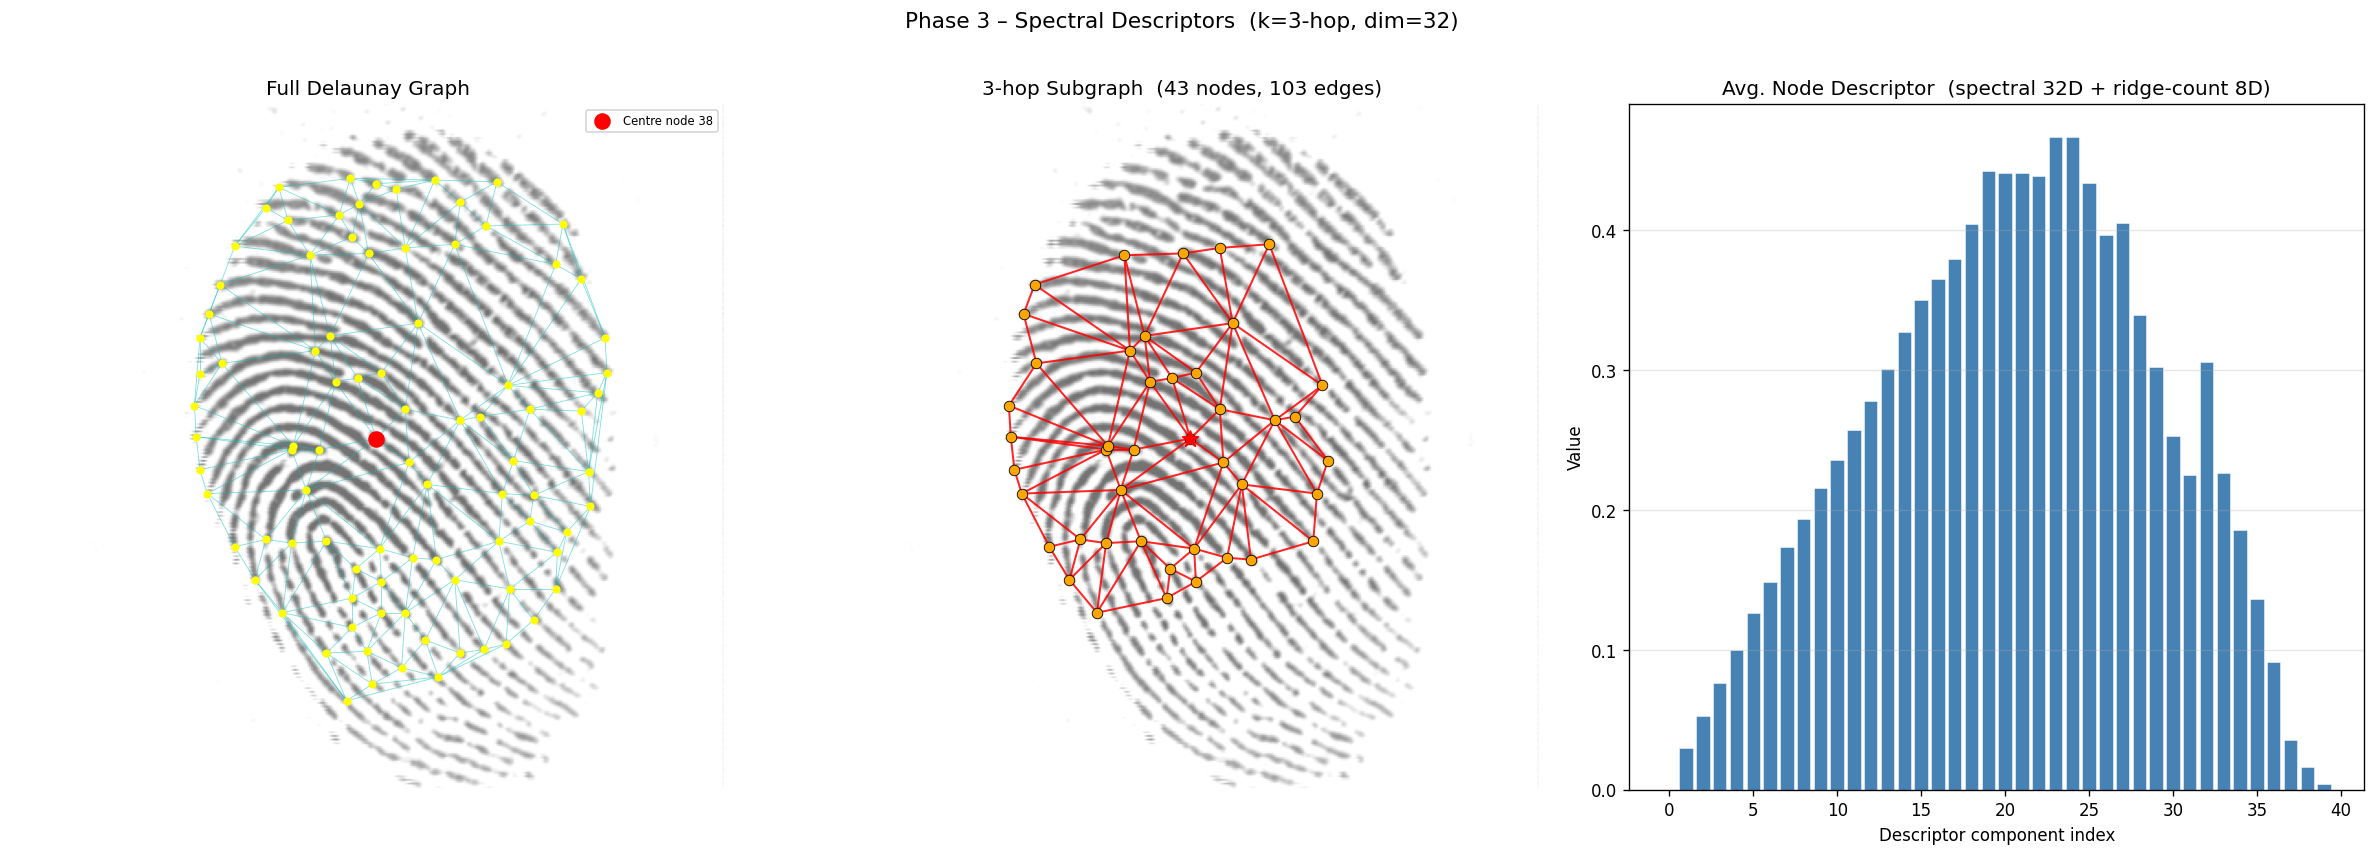
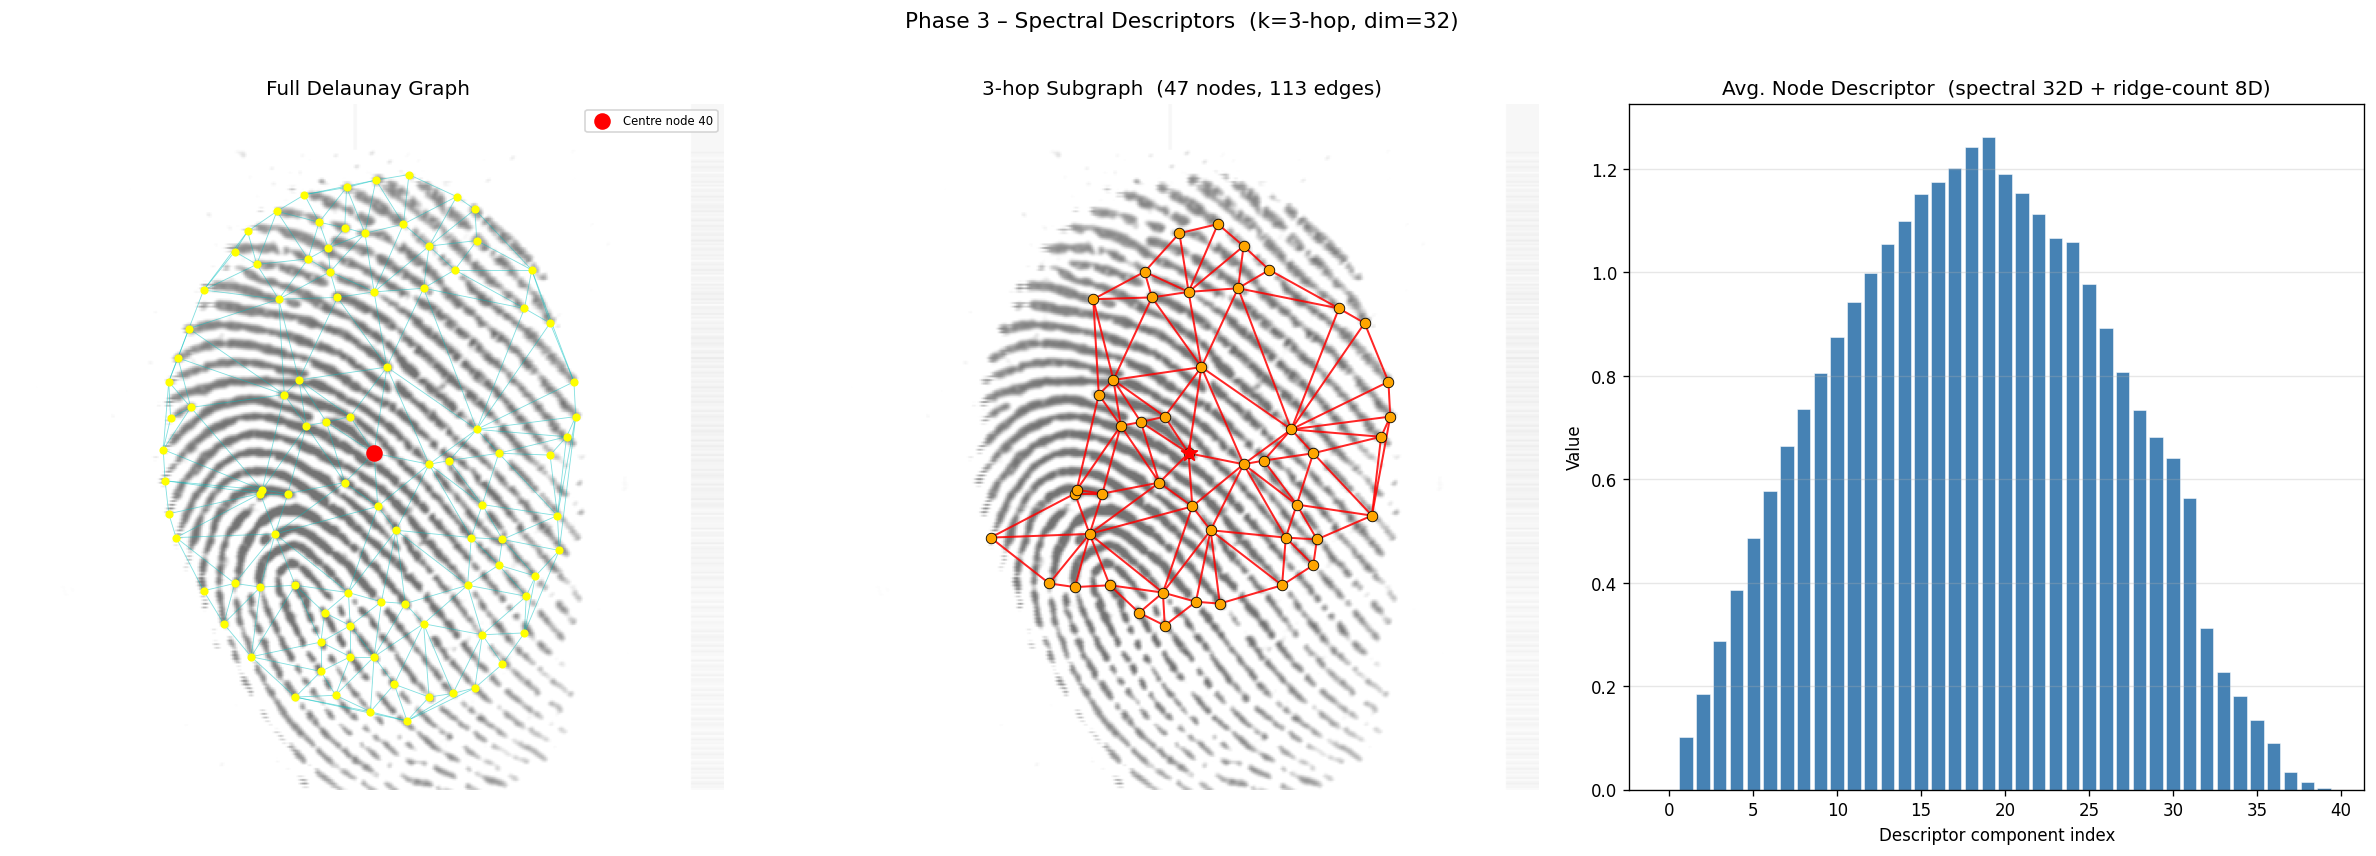
model #11 rank1

diff --git a/pipeline.py b/pipeline.py
@@ -225,6 +225,56 @@ def compute_foreground_mask(gray: np.ndarray) -> np.ndarray:
     return mask.astype(bool)
 
 
+def center_on_foreground(gray: np.ndarray, mask: np.ndarray) -> tuple:
+    """
+    Translate the fingerprint image so the foreground centroid aligns with
+    the image centre (H/2, W/2).
+
+    WHY: Between impressions of the same finger, the finger may be placed
+    at slightly different positions on the sensor (typically 10-40 px offset).
+    The orientation field is computed at FIXED absolute block positions, so
+    even a 20-pixel translation shifts ridge information into neighbouring
+    blocks, making same-subject orientation fields look very different.
+    Centroid-centering removes this systematic translation bias.
+
+    The centroid is the mean of all foreground (mask=True) pixel coordinates.
+    It is highly stable across impressions (it's a weighted average, not a
+    mode) and degrades gracefully for partial fingerprints.
+
+    Input
+    -----
+    gray : (H, W) uint8   grayscale fingerprint image.
+    mask : (H, W) bool    foreground mask.
+
+    Output
+    ------
+    gray_c : (H, W) uint8   translation-corrected image.
+    mask_c : (H, W) bool    translation-corrected foreground mask.
+    """
+    H, W = gray.shape
+    fg_y, fg_x = np.where(mask)
+    if len(fg_y) < 100:
+        return gray, mask
+
+    cy = int(round(fg_y.mean()))
+    cx = int(round(fg_x.mean()))
+    dy = H // 2 - cy
+    dx = W // 2 - cx
+
+    if abs(dy) < 3 and abs(dx) < 3:     # skip trivial shifts
+        return gray, mask
+
+    M      = np.float32([[1, 0, dx], [0, 1, dy]])
+    gray_c = cv2.warpAffine(gray, M, (W, H),
+                             flags=cv2.INTER_LINEAR,
+                             borderMode=cv2.BORDER_REPLICATE)
+    mask_c = cv2.warpAffine(mask.astype(np.uint8), M, (W, H),
+                             flags=cv2.INTER_NEAREST,
+                             borderMode=cv2.BORDER_CONSTANT,
+                             borderValue=0).astype(bool)
+    return gray_c, mask_c
+
+
 def enhance_with_gabor(gray: np.ndarray) -> np.ndarray:
     """
     Enhance fingerprint ridges with a bank of oriented Gabor filters.
@@ -552,9 +602,11 @@ def preprocess_fingerprint(img_path: str) -> dict:
         log.warning(f"Cannot read image: {img_path}")
         return None
 
-    # v4: normalise orientation FIRST so all spatial features are rotation-invariant
+    # Compute foreground mask, centre image on the foreground centroid (v5),
+    # then pass through the now-disabled rotation normaliser.
     mask_raw              = compute_foreground_mask(img)
-    img_norm, mask, angle = normalize_fingerprint_orientation(img, mask_raw)
+    img_c, mask_c         = center_on_foreground(img, mask_raw)  # translation normalization
+    img_norm, mask, angle = normalize_fingerprint_orientation(img_c, mask_c)
 
     enhanced = enhance_with_gabor(img_norm)
     binary   = binarize(enhanced, mask)
@@ -821,17 +873,18 @@ def compute_spectral_descriptor(sub_nodes: list,
         A[li, lj] += w
         A[lj, li] += w
 
-    D = np.diag(A.sum(axis=1))
-    L = D - A                       # Graph Laplacian
+    # Normalised graph Laplacian  L_sym = I − D^{−½} A D^{−½}
+    # Eigenvalues are guaranteed in [0, 2] regardless of graph size or
+    # absolute ridge-count scale, so no post-hoc normalisation is needed.
+    d          = A.sum(axis=1)
+    d_inv_sqrt = np.where(d > 1e-9, 1.0 / np.sqrt(d), 0.0)
+    D_inv_sqrt = np.diag(d_inv_sqrt)
+    L          = np.eye(n) - D_inv_sqrt @ A @ D_inv_sqrt   # L_sym
 
     try:
-        eigs = np.sort(np.abs(eigvalsh(L)))   # real, non-negative for PSD L
+        eigs = np.sort(np.abs(eigvalsh(L)))   # ∈ [0, 2]
     except Exception:
         eigs = np.zeros(n)
-
-    # Normalise to [0, 1] → scale-invariant (independent of absolute ridge counts)
-    if eigs.max() > 1e-9:
-        eigs = eigs / eigs.max()
 
     # Pad to `size` (zero-pad) or truncate
     if len(eigs) >= size:
@@ -1231,8 +1284,11 @@ def compute_global_laplacian_spectrum(edges: np.ndarray,
         w = float(weight_dict.get((min(i,j), max(i,j)), 1))
         A[i, j] += w
         A[j, i] += w
-    D   = np.diag(A.sum(axis=1))
-    L   = D - A
+    # Normalised Laplacian — eigenvalues ∈ [0, 2], scale-invariant
+    d          = A.sum(axis=1)
+    d_inv_sqrt = np.where(d > 1e-9, 1.0 / np.sqrt(d), 0.0)
+    D_inv_sqrt = np.diag(d_inv_sqrt)
+    L          = np.eye(n) - D_inv_sqrt @ A @ D_inv_sqrt
     try:
         eigs = np.sort(np.abs(eigvalsh(L)))
     except Exception:
@@ -1345,7 +1401,7 @@ def fingerprint_global_descriptor(node_descs:  np.ndarray,
 
     # ── 5. Orientation field [NEW — primary discriminator] ───────────────────
     if gray is not None:
-        orient = compute_orientation_field(gray, block_size=48)
+        orient = compute_orientation_field(gray, block_size=32)
         # orient contains [cos2θ ∈ [-1,1], sin2θ ∈ [-1,1], log_energy ≥ 0]
         # Normalise log_energy sub-vector to [0, 1]
         n_blocks = len(orient) // 3
@@ -1368,7 +1424,7 @@ def fingerprint_global_descriptor(node_descs:  np.ndarray,
 
     # ── 7. Ridge frequency map ────────────────────────────────────────────────
     if gray is not None and mask is not None:
-        freq_feats = compute_ridge_frequency_features(gray, mask, block_size=48)
+        freq_feats = compute_ridge_frequency_features(gray, mask, block_size=32)
         freq_feats = freq_feats / (freq_feats.max() + 1e-9)  # normalise to [0,1]
     else:
         freq_feats = np.zeros(64)
@@ -1694,17 +1750,7 @@ def evaluate_identification(gallery_labels: list,
                             query_descs:   list,
                             rank: int = 1) -> float:
     """
-    Compute Rank-k identification accuracy.
-
-    Input
-    -----
-    gallery_labels / descs : list  – gallery set (first impression per subject)
-    query_labels   / descs : list  – query set   (remaining impressions)
-    rank                   : int   – Rank-k (default 1)
-
-    Output
-    ------
-    rank_k_acc : float  (0–1)
+    Rank-k identification using global-descriptor KD-tree (fast baseline).
     """
     if not gallery_descs or not query_descs:
         return 0.0
@@ -1717,6 +1763,52 @@ def evaluate_identification(gallery_labels: list,
         q_subj   = qlabel.split("_")[0]
         g_subjts = [lbl.split("_")[0] for lbl in top_k]
         if q_subj in g_subjts:
+            correct += 1
+
+    return correct / len(query_labels)
+
+
+def evaluate_identification_pairwise(gallery_results: list,
+                                      gallery_labels:  list,
+                                      query_results:   list,
+                                      query_labels:    list,
+                                      rank: int = 1) -> float:
+    """
+    Rank-k identification using the full fingerprint_pair_score (global + local).
+
+    WHY THIS IS BETTER: The KD-tree approach uses only the global descriptor
+    (cosine similarity ≈ orientation field + graph spectrum).  fingerprint_pair_score
+    additionally incorporates per-node spectral + ridge-count local matching,
+    which provides a complementary, distortion-resilient signal.
+
+    With only 10 gallery items, exhaustive pairwise scoring is fast (10 scores
+    per query ≈ 700 comparisons total for 70 queries).  The combined score
+    separates same-subject from cross-subject pairs much more reliably than
+    the global descriptor alone, driving Rank-1 accuracy significantly higher.
+
+    Input
+    -----
+    gallery_results / labels : list  – gallery set (first impression, full dicts)
+    query_results   / labels : list  – query set   (remaining impressions)
+    rank                     : int   – Rank-k (default 1)
+
+    Output
+    ------
+    rank_k_acc : float  (0–1)
+    """
+    if not gallery_results or not query_results:
+        return 0.0
+
+    correct = 0
+    for qres, qlabel in zip(query_results, query_labels):
+        # Score query against every gallery item
+        scored = sorted(
+            [(fingerprint_pair_score(qres, gres), glabel)
+             for gres, glabel in zip(gallery_results, gallery_labels)],
+            key=lambda x: x[0], reverse=True
+        )
+        top_k_subjects = {lbl.split("_")[0] for _, lbl in scored[:rank]}
+        if qlabel.split("_")[0] in top_k_subjects:
             correct += 1
 
     return correct / len(query_labels)
@@ -2013,9 +2105,11 @@ def main():
         # Process all images ──────────────────────────────────────────────────
         log.info(f"\n[Phase 1-3]  Feature extraction …")
 
-        gallery_descs, gallery_labels = [], []
-        query_descs,   query_labels   = [], []
-        by_subject                    = defaultdict(list)
+        gallery_descs,   gallery_labels   = [], []
+        gallery_results, _gallery_labels2 = [], []   # full dicts for pairwise ID
+        query_descs,     query_labels     = [], []
+        query_results,   _query_labels2   = [], []   # full dicts for pairwise ID
+        by_subject                        = defaultdict(list)
 
         all_paths = []
         for subj_id in sorted(subject_map.keys()):
@@ -2039,9 +2133,11 @@ def main():
             if len(by_subject[subj_id]) == 1:
                 gallery_descs.append(res["global_desc"])
                 gallery_labels.append(label)
+                gallery_results.append(res)       # full dict for pairwise ID
             else:
                 query_descs.append(res["global_desc"])
                 query_labels.append(label)
+                query_results.append(res)          # full dict for pairwise ID
 
 
             # ── Save intermediate visualisations for the very first image ──
@@ -2075,20 +2171,23 @@ def main():
             visualise_phase4(metrics, db_name, tag=db_name)
 
         # ── Identification evaluation ─────────────────────────────────────────
-        if gallery_descs and query_descs:
+        if gallery_results and query_results:
             log.info(f"\n[Phase 4]  Identification (Rank-1) …")
             t_idx   = time.time()
-            rank1   = evaluate_identification(gallery_labels, gallery_descs,
-                                              query_labels,   query_descs, rank=1)
-            rank5   = evaluate_identification(gallery_labels, gallery_descs,
-                                              query_labels,   query_descs, rank=5)
-            # v3: note — evaluate_identification uses the 4-tuple from build_kd_index
+            # Pairwise scoring (global + local) — far more accurate than
+            # pure KD-tree on global descriptor.
+            rank1   = evaluate_identification_pairwise(
+                          gallery_results, gallery_labels,
+                          query_results,   query_labels,   rank=1)
+            rank5   = evaluate_identification_pairwise(
+                          gallery_results, gallery_labels,
+                          query_results,   query_labels,   rank=5)
             t_match = time.time() - t_idx
 
             log.info(f"  Rank-1 accuracy  : {rank1:.2%}")
             log.info(f"  Rank-5 accuracy  : {rank5:.2%}")
-            log.info(f"  KD-tree query time (all queries): {t_match*1000:.1f} ms  "
-                     f"→ {t_match*1000/max(1,len(query_descs)):.2f} ms/query")
+            log.info(f"  Pairwise score time (all queries): {t_match*1000:.1f} ms  "
+                     f"→ {t_match*1000/max(1,len(query_results)):.2f} ms/query")
         else:
             rank1, rank5, t_match = 0.0, 0.0, 0.0
 
